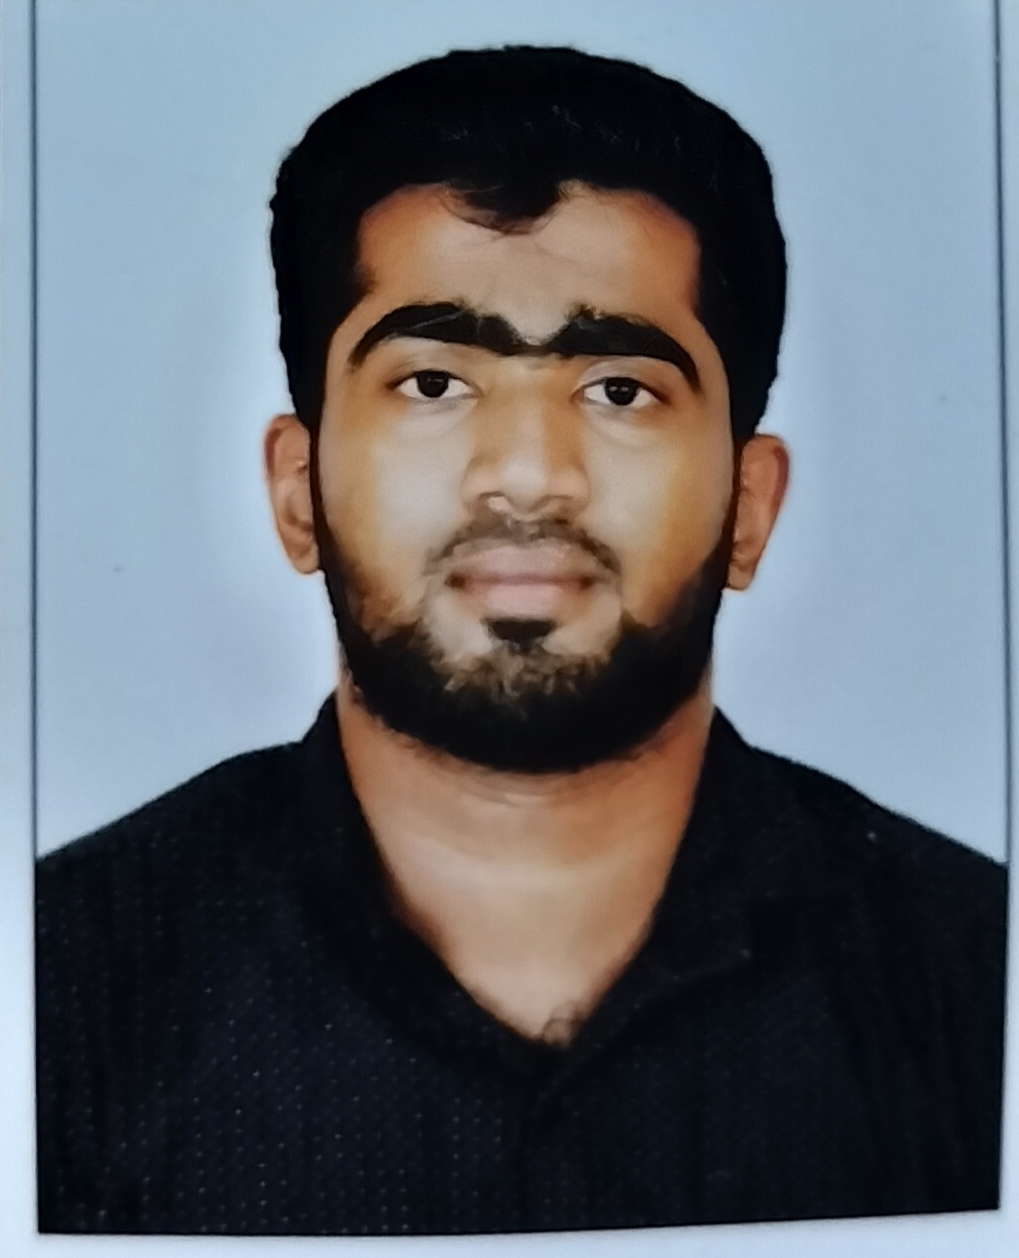
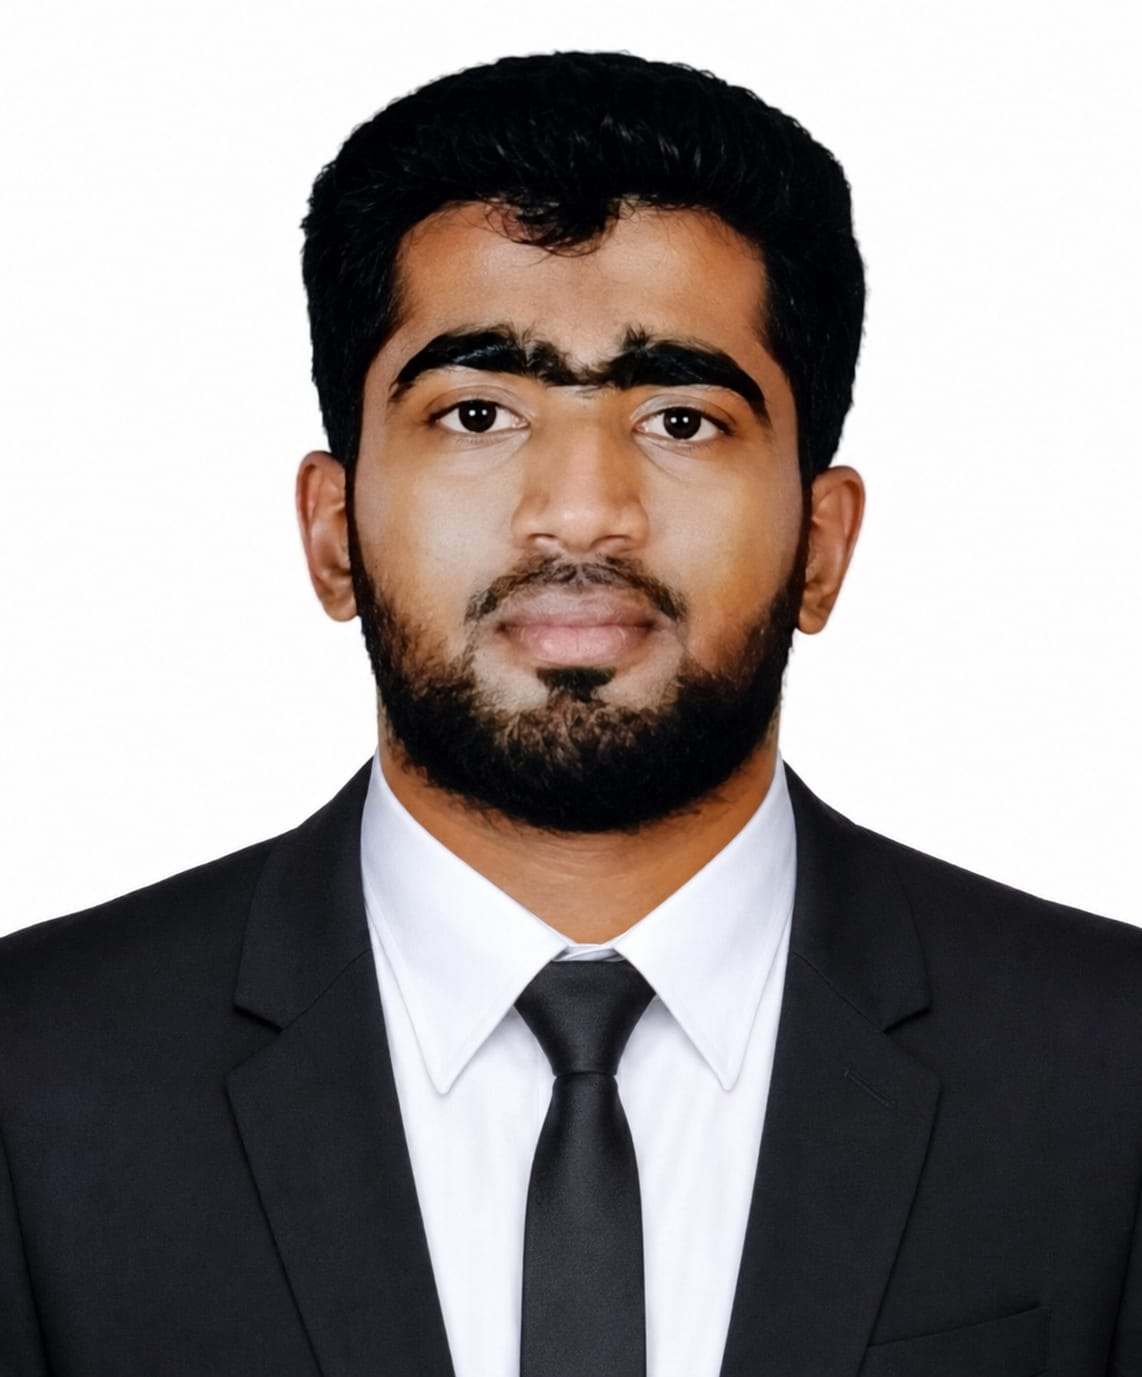
b

diff --git a/src/pages/Home.jsx b/src/pages/Home.jsx
@@ -43,7 +43,7 @@
             <div className="w-[320px] sm:w-[360px] bg-slate-900/30 p-6 rounded-[12px] shadow-lg">
                 <div className="w-full aspect-square overflow-hidden rounded-full">
                   <img
-                    src="/images/mohamed.jpeg"
+                    src="/images/harun.jpeg"
                     alt="Mohamed Harun"
                     className="w-full h-full object-cover shadow-md"
                   />